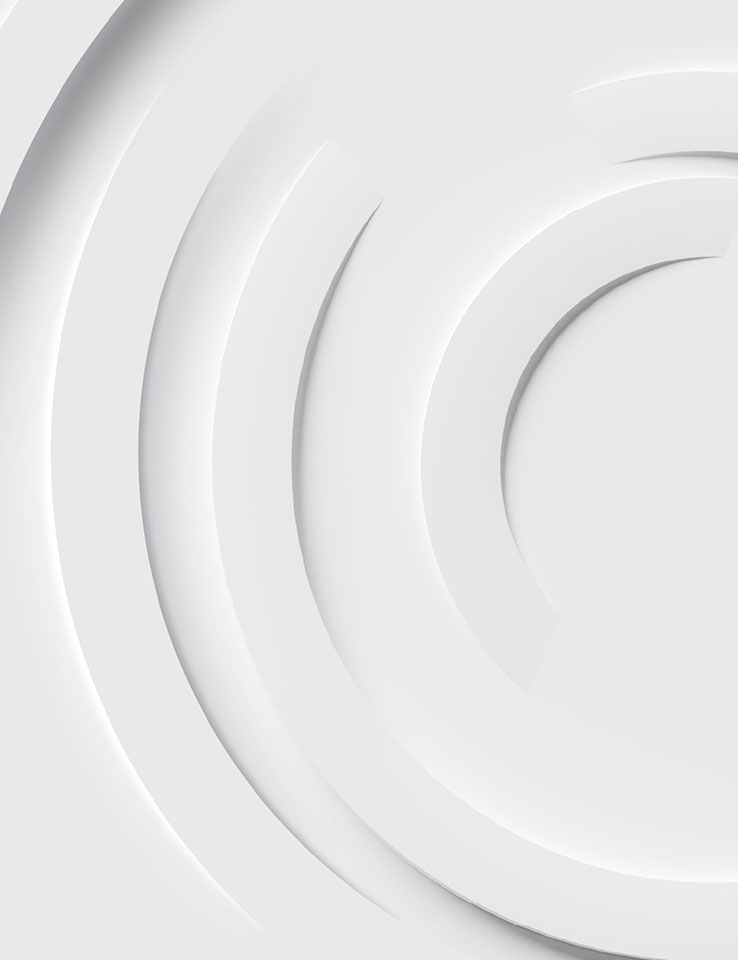
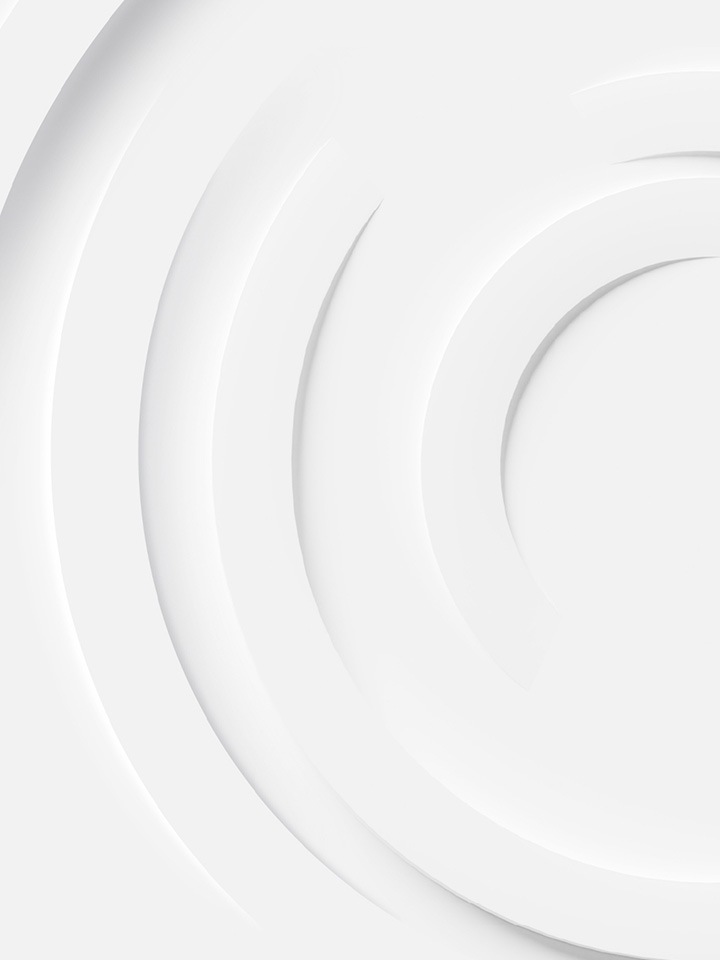
updated code

diff --git a/public/css/style.css b/public/css/style.css
@@ -741,7 +741,7 @@ body .footer-col .icon-col i:hover {
   background-attachment: fixed;
   background-repeat: no-repeat;
   background-size: 50%;
-  background-position: right;
+  background-position: right 53%;
 }
 .growth_heading {
   font-size: 50px;
@@ -975,9 +975,9 @@ background-image: url("../images/bubbles-img.jpg");
   right: auto;
   left: 0;
 }
-.mobile-creative-section.team-section .carousel .heading_col{
+/*.mobile-creative-section.team-section .carousel .heading_col{
   min-height: 100vh !important;
-}
+}*/
 .banner_video video {
   width: 100% !important;
 }
@@ -1152,17 +1152,17 @@ background-image: url("../images/bubbles-img.jpg");
 }
 .team_col::after,
 .services_team_slider .heading_col::after {
-  position: absolute;
-  content: "";
-  background-image: url("../images/ring.png");
-  height: 450px;
-  width: 450px;
-  background-size: 100%;
-  right: -225px;
-  top: 0;
-  bottom: 0;
-  margin: auto;
-  display: block !important;
+position: absolute;
+    content: "";
+    background-image: url(../images/ring.png);
+    height: 530px;
+    width: 530px;
+    background-size: 100%;
+    right: -302px;
+    top: 82px;
+    bottom: 0;
+    margin: auto;
+    display: block !important;
   opacity: 0.15;
 }
 .meet_team .team_col::after{
@@ -1388,12 +1388,13 @@ body .footer-col-1 img {
   background-size: 70%;
   background-repeat: no-repeat;
 }
-.healthcare_col::after,
-.financial_col::after,
-.tourism_col::after,
-.non-profit_col::after,
-.education_col::after {
-  display: none;
+body .services_team_slider .healthcare_col::after,
+body .services_team_slider .financial_col::after,
+body .services_team_slider .tourism_col::after,
+body .services_team_slider .non-profit_col::after,
+body .services_team_slider .education_col::after,  body .work_slider .tourism_col::after, body .work_slider .non-profit_col::after,
+ body .work_slider .education_col::after,  body .work_slider .financial_col::after, body .work_slider .healthcare_col::after {
+  display: none !important;
 }
 
 .services_parallax .carousel-indicators button {
@@ -1414,11 +1415,11 @@ body .footer-col-1 img {
 }
 body .healthcare_col {
   background: rgba(178, 201, 53, 1) !important;
-  /*     background-image: url("../images/half-ring.jpg") !important;*/
+       background-image: url("../images/half-ring.jpg") !important;
   background-position: center right !important;
   background: var(--primary_color);
   background-blend-mode: multiply;
-  background-size: 70% !important;
+  background-size: 575px !important;
   background-repeat: no-repeat !important;
 }
 .team_right_col::before {
@@ -1444,10 +1445,10 @@ body .tourism_col {
 }
 body .financial_col {
   background-color: #f28452 !important;
-  /*    background-image: url("../images/half-ring.jpg") !important;*/
+      background-image: url("../images/half-ring.jpg") !important;
   background-position: center right !important;
   background-blend-mode: multiply;
-  background-size: 70% !important;
+  background-size: 575px !important;
   background-repeat: no-repeat !important;
 }
 .right_content_col {
@@ -1459,10 +1460,10 @@ body .financial_col {
 }
 body .education_col {
   background-color: #72c9d4 !important;
-  /*    background-image: url("../images/half-ring.jpg") !important;*/
+      background-image: url("../images/half-ring.jpg") !important;
   background-position: center right !important;
   background-blend-mode: multiply;
-  background-size: 70% !important;
+  background-size: 575px !important;
   background-repeat: no-repeat !important;
 }
 .education_right_col::before {
@@ -1771,7 +1772,7 @@ body .education_col {
 }
 #team-leaders.horizontal_parallax {
   max-width: inherit !important;
-  width: 900% !important;
+  width: 800% !important;
 }
 .services_team_slider .right_content_col img {
   object-position: top;
@@ -2633,6 +2634,20 @@ body .testimonials-inner .carousel-indicators{
   }
 }
 @media only screen and (max-width: 576px) {
+  body .services_team_slider .healthcare_col::after,
+body .services_team_slider .financial_col::after,
+body .services_team_slider .tourism_col::after,
+body .services_team_slider .non-profit_col::after,
+body .services_team_slider .education_col::after,  body .work_slider .tourism_col::after, body .work_slider .non-profit_col::after,
+ body .work_slider .education_col::after,  body .work_slider .financial_col::after, body .work_slider .healthcare_col::after {
+  display: block !important;
+}
+.team_right_col::before, .financial_right_col::before, .team_right_col::before{
+  right: 0;
+  left: 0;
+  margin: auto;
+  top: -170px;
+}
   .right-img {
     display: none !important;
   }
@@ -2670,7 +2685,7 @@ body .testimonials-inner .carousel-indicators{
     height: 434px;
     margin: 360px auto 0px auto !important;
   }
-  .team_col::after,
+ 
   .services_team_slider .heading_col::after {
     display: none !important;
   }
@@ -3242,20 +3257,6 @@ body .testimonials-inner .carousel-indicators{
   .latest-news {
     padding: 0px !important;
   }
-  /*.about-mobile-slider .heading_col::before{
-content: "";
-position: absolute;
-    left: 0;
-    right: 0;
-    margin: auto;
-    bottom: -35%;
-    display: block !important;
-        height: 350px !important;
-    width: 350px !important;
-    border-radius: 100%;
-    background-color: #f2682ab5;
-    z-index: 111;
-    top: auto !important;
 
-}*/
+
 }

diff --git a/public/css/style_2.css b/public/css/style_2.css
@@ -63,8 +63,8 @@
       position: absolute;
     content: "";
     background-image: url(../images/ring.png);
-    height: 450px;
-    width: 450px;
+    height: 530px;
+    width: 530px;
     background-size: 100%;
     bottom: 0;
     margin: auto;
@@ -90,19 +90,18 @@
 }
 
 .impact_section_2 .team_col::after{
-  position: absolute;
+    position: absolute;
     content: "";
     background-image: url(../images/ring.png);
-    height: 450px;
-    width: 450px;
-    background-size: 100%;
+    height: 530px;
+    width: 530px;
+    background-size: 530px;
     left: -215px;
-    top: 0%;
+    top: 82px;
     bottom: 0;
     margin: auto;
     opacity: 1;
-        transform: rotate(112deg);
-        right: auto;
+    right: auto;
 }
 .impact_section_2 .impact_section::after{
       position: absolute;
@@ -135,17 +134,17 @@
   z-index: 11;
 }
 .leader_section .team_col::after {
-    position: absolute;
-    content: "";
-    background-image: url(../images/ring.png);
-    height: 450px;
-    width: 450px;
-    background-size: 100%;
-    right: -215px;
-    top: 0;
+    right: -285px;
+    top: 82px;
     bottom: 0;
     margin: auto;
     opacity: 1;
+position: absolute;
+    content: "";
+    background-image: url(../images/ring.png);
+    height: 530px;
+    width: 530px;
+    background-size: 100%;
 }
 .unordered li{
   margin-bottom: 10px;
@@ -1265,15 +1264,15 @@ body .case-study-faqs .heading_col, .only_content{
   margin: 0px!important;
   padding: 0px !important;
 }
-.impact_section .team_col::after {
-position: absolute;
-    content: "";
-    right: 0%;
-    bottom: -100%;
-    margin: auto;
-    left: 0;
-    height: 350px;
-    width: 360px;
+.impact_section .team_col::after,  .team_col::after {
+        position: absolute;
+        content: "";
+        right: 0;
+        bottom: -100%;
+        margin: auto;
+        left: 0;
+        height: 440px;
+        width: 440px;
 
 }
     .impact_section::after {
@@ -1639,22 +1638,6 @@ position: absolute;
         .item {
     position: relative;
 }
-
- /* .strategy_wrap {
-    position: absolute;
-    top: 0;
-    left: 0;
-    width: 100%;
-    height: 100%;
-    display: none; Hide by default
-    z-index: 2;
-    transform: translateY(412px); 
-}  */
-
-/* .item:hover .strategy_wrap {
-    display: block; Show only when hovering over .item
-} */
-     
    @media (min-width: 992px) {
     #service1 .modal-lg, .modal-xl {
         --bs-modal-width: 70% !important;

diff --git a/public/css/style-1.css b/public/css/style-1.css
@@ -11,11 +11,11 @@
 }
  .tourism_col {
      background: rgb(245, 185, 20) !important;
-/*     background-image: url("../images/half-ring.jpg") !important;*/
+     background-image: url("../images/half-ring.jpg") !important;
      background-position: center right !important;
      background: var(--primary_color);
      background-blend-mode: multiply;
-     background-size: 70% !important;
+     background-size: 575px !important;
      background-repeat: no-repeat !important;
  }
 
@@ -30,19 +30,13 @@
      z-index: 1111;
  }
 */
- .tourism_col::after,
- .non-profit_col::after,
- .education_col::after {
-     display: none;
- }
-
  .non-profit_col {
      background: rgb(241, 136, 87) !important;
-/*     background-image: url("../images/half-ring.jpg") !important;*/
+     background-image: url("../images/half-ring.jpg") !important;
      background-position: center right !important;
      background: var(--primary_color);
      background-blend-mode: multiply;
-     background-size: 70% !important;
+     background-size: 575px !important;
      background-repeat: no-repeat !important;
  }
 
@@ -58,11 +52,11 @@
  }
  .education_col {
      background: rgb(87, 185, 241) !important;
-/*     background-image: url("../images/half-ring.jpg") !important;*/
+     background-image: url("../images/half-ring.jpg") !important;
      background-position: center right !important;
      background: var(--primary_color);
      background-blend-mode: multiply;
-     background-size: 70% !important;
+     background-size: 575px !important;
      background-repeat: no-repeat !important;
  }
 
